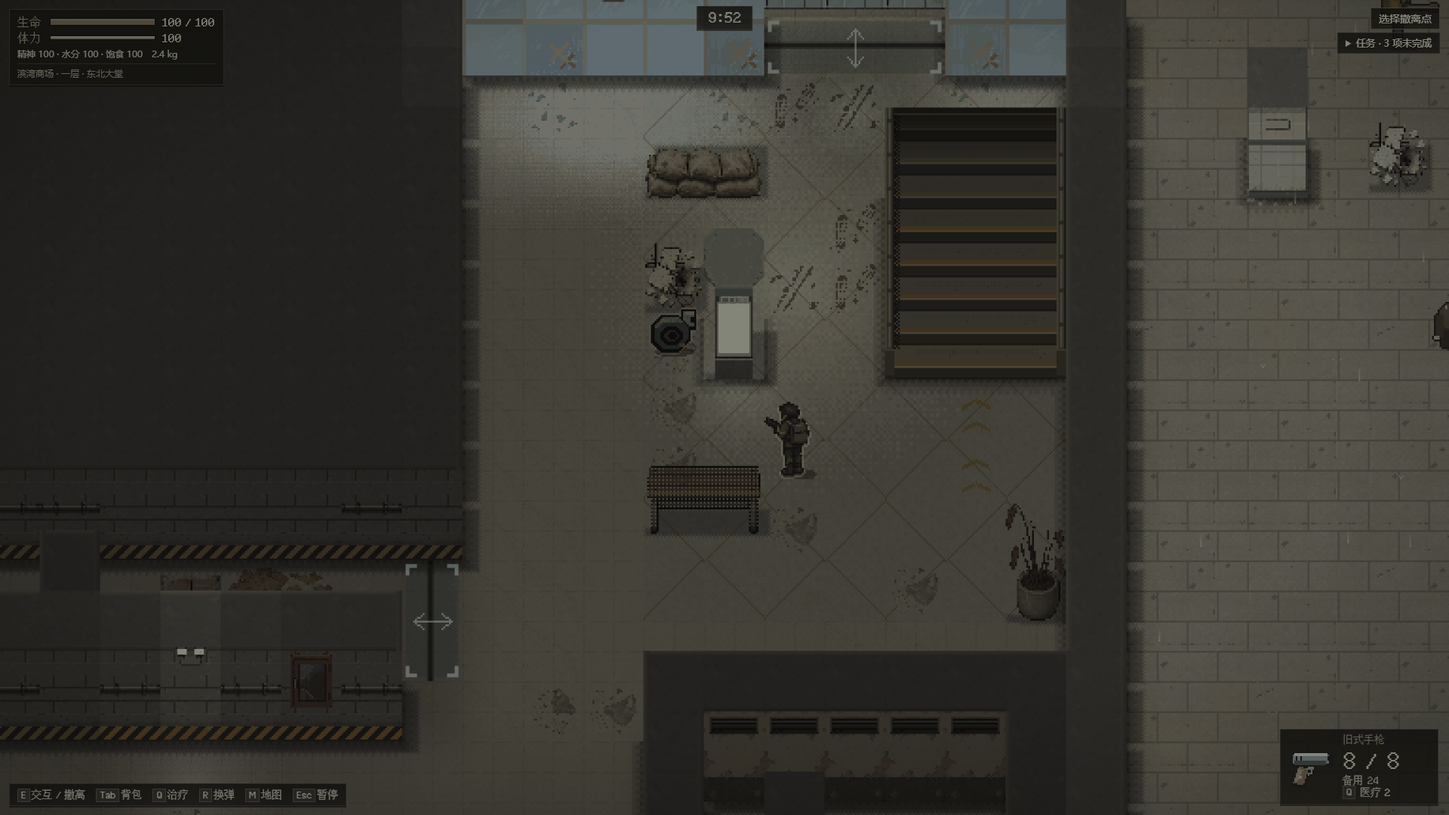
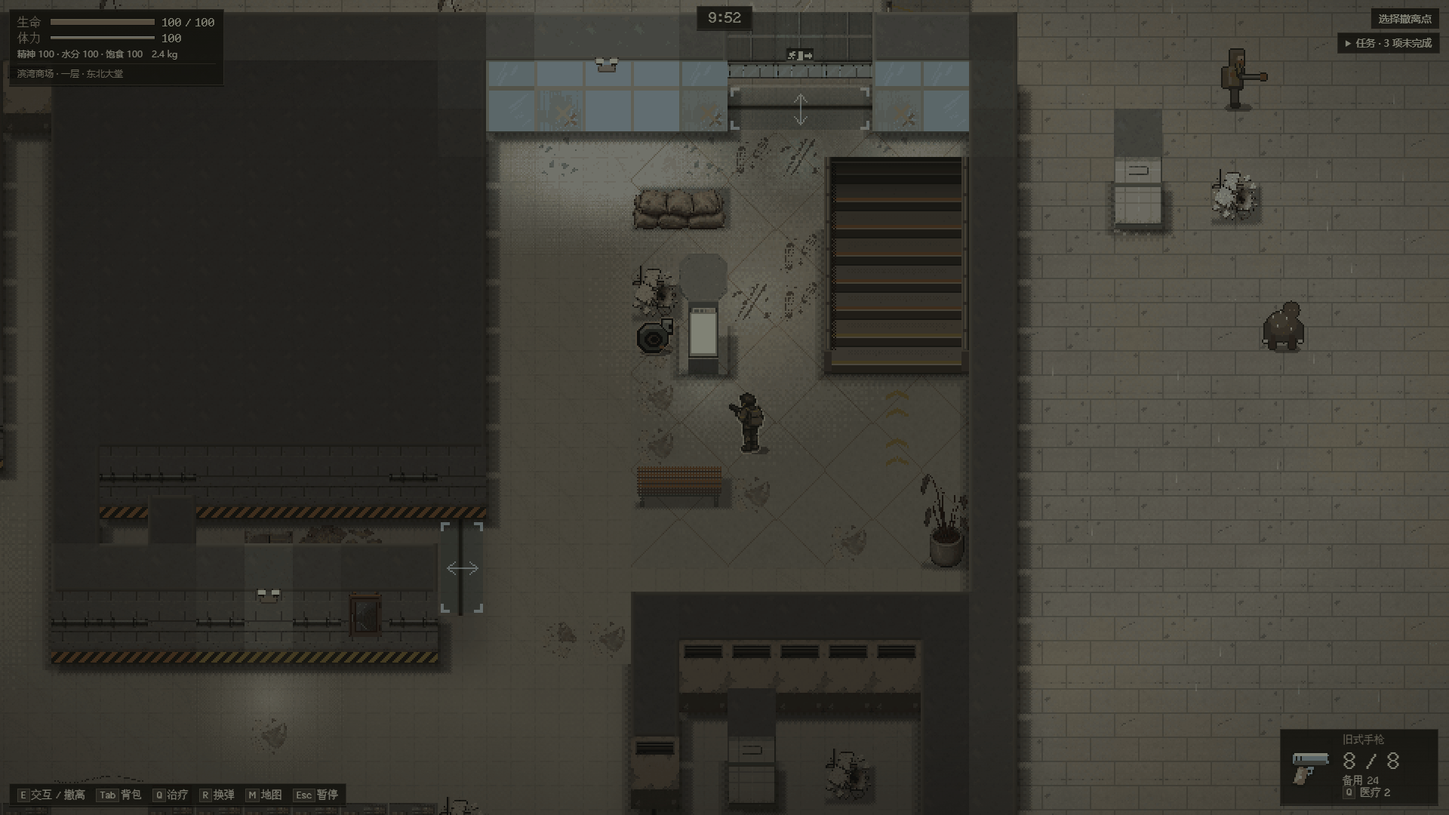
docs: the open items decided (camera, scaling, lights, layout 3, walls); screenshots

diff --git a/docs/mall-2-5d/README.md b/docs/mall-2-5d/README.md
@@ -6,6 +6,8 @@
 
 2026-10-14 渲染接入：`?sample=mall` 在 Pixi 2.5D 画面上跑布局二版，Sol 第一批 110 个素材入库。做法、检查结果和已知问题见下文“2.5D 样板”一节。
 
+2026-10-14 晚：维护者授权按 Opus 的判断处理遗留的几项后合并。样板新出击改用布局三版（茶几、露台桌椅改两格碰撞），镜头、缩放和灯光的改动城中村也一起生效，见“第三次处理”。
+
 ## 维护者决定（2026-10-13）
 
 1. 做布局二版：卖场加货架、柜台等碰撞；外墙、房间、同层出入口、四组楼层连接、锚点和撤离点保持。新旧布局并存，进行中的旧行动按原布局恢复。
@@ -69,11 +71,28 @@
 - 北侧主通道每列至少 3 格连续可走，扶梯横穿通道全程畅通；超市、生鲜、冷藏内相邻两排固定物之间至少 2 格；家居馆临外墙通道与西侧两格通道全程畅通。
 - 一版原有 5 项（39 区域与锚点、两种潮位全图连通、25 敌 60 物资分配与守恒、B/M/V 通道一致、两层隔离射击）在二版上同样通过。
 
+## 布局三版（`mall-v3` / `mall-layout-3`，2026-10-14）
+
+二版的碰撞不能在同一个修订号下改：已存的二版行动里，人或敌人可能正站在要改的格子上，读档时会因为“站进了家具”被拒绝，整个存档会锁住。所以茶几和露台桌椅的碰撞放到三版里改，二版原样保留。
+
+- 数据：`MALL_V3_LAYOUT`（[`src/mall-layout-v2.ts`](../../src/mall-layout-v2.ts)）由二版按一张替换表逐项换出来，一层和二版完全相同。二版数据一个字节都没动，测试钉住了二版世界的 SHA-256。
+- 只改两处：
+  - F2-13 两个客厅的茶几改成 2×1 的 `coffee-table-wide`，放在 (58,19) 和 (58,33)，紧贴沙发南边，和沙发同宽、同中心。原来是一格的茶几，隔着一整行，还偏在沙发西半边。茶几画的还是那张 30 像素宽的图，居中放在两格占地上，投影只画在图下面。
+  - F2-18 露台四组桌椅改成 2×1 的 `bistro-set`，放在 (66,31)、(70,31)、(66,36)、(68,40)。椅子不再画在可以走过去的格子上。
+- 出击和恢复：`?sample=mall` 的新出击用三版。之前开始的二版行动，在标签页、水产站出发和“继续行动”里都照常按二版恢复。三版记录配二版修订号（或者反过来）一律拒绝，不覆盖原始数据。不认识三版的旧包遇到三版行动也会拒绝并保留原始数据，换新包就能继续。普通入口仍是一版。
+- 检查：落点、穿行带、通道宽度、两种潮位连通、敌人和物资分配这些原有约束，在三版上同样通过；三版和二版只在上面这些格子上不同。`test:mall-sample` 的 M18 在真实浏览器里验证两件事：继续一个二版行动仍是二版、茶几在旧位置；新出击是三版、茶几居中。`scripts/mall-runtime-compat.mjs` 验证 main 的包遇到三版行动会拒绝，并保留原始字节。
+
 ## 2.5D 样板（`?sample=mall`）
 
 ### 怎么打开
 
-双击仓库根目录的 `商场试玩.html`，或打开 `start the game.html?sample=mall`。进入水产站后出击区域已选好“滨湾商场”，种子可留空。出生在正门广场西端，面朝正门。想要像素更整齐、走动时不闪的画面，可以在地址后加 `?crisp=1`（`商场试玩.html?crisp=1`）：画面按整数倍放大，1280×720 下能看到的范围从 24 格宽变成 20 格宽。不带 `sample` 的普通入口不变：商场仍是布局一版，在原来的 Phaser 画面上跑。
+双击仓库根目录的 `商场试玩.html`，或打开 `start the game.html?sample=mall`。进入水产站后出击区域已选好“滨湾商场”，种子可留空。出生在正门广场西端，面朝正门。不带 `sample` 的普通入口不变：商场仍是布局一版，在原来的 Phaser 画面上跑。
+
+画面缩放（城中村样板相同）：默认取整数倍，而且只会拉远，不会拉近，最多多看三分之一。
+- 1920×1080 是 2 倍，能看到 30×17 格，和 Phaser 行动画面一样大；原来是 2.5 倍、24 格宽。
+- 2560×1440 是 3 倍。
+- 1280×720、1366×768 这类窗口没有合适的整数倍：1 倍要看 40 格，2 倍只剩 20 格，比敌人的射程还近。所以仍用 1.67、1.78 倍，24 格宽。
+- 地址后加 `?crisp=1` 取最近的整数倍，可能拉近（1280×720 下 20 格宽）；加 `?crisp=0` 是原来的画面，任何窗口都 24 格宽。
 
 ### 截图
 
@@ -88,7 +107,7 @@
 
 ### 入口与存档
 
-- `?sample=mall` 时新出击用布局二版（标签页和水产站出发都一样），存档里是 `mall-v2`；继续行动按存档里的布局恢复。样板只画 `mall-v2`，其他行动照旧走原画面。
+- `?sample=mall` 时新出击用布局三版（标签页和水产站出发都一样），存档里是 `mall-v3`；继续行动按存档里的布局恢复，之前的 `mall-v2` 行动仍在 2.5D 画面上按二版继续。样板只画 `mall-v2` 和 `mall-v3`，其他行动照旧走原画面。
 - `?sample=village` 的行为不变（仍预选居民楼，空种子仍挑城中村出生点）。
 - 存档格式、Runtime 规则和普通入口都没有改。
 
@@ -96,15 +115,17 @@
 
 - 地面：每格按区域选 Sol 的地面图，64 像素的图按格子奇偶取四分之一，跨块拼接不错位；滩涂格仍画泥地，潮水照旧盖上去；二层楼外临空处画两层楼下的暗色街面。杂物贴花和墙、家具的投影烘进地面块。
 - 墙：同一种墙（顶面、哪几边露边、立面、女儿墙栏杆）只画一张图。一层地图边是封锁围挡，二层楼外只有露台一圈画矮女儿墙，其余临空不画墙。东西向的真入口上画门头（大门用入口门头，其余用卷帘门头），顶面和墙顶对齐；南北向侧门南边那段墙压低成两级台阶，让门洞露全。
-- 家具：每件一张图，按占地南边线排前后，玩家走到后面时会淡出，敌人在后面显示轮廓。货架端头立通道号牌（1 到 9 号，从北到南、从西到东），生鲜、冷藏、家居的牌子画小图标。未布置区域里没有名字的低矮碰撞格放一件替身杂物（托盘货、倒地购物车、沙袋、残堆），没有名字的孤立单格画成柱子，其余没有名字的墙格画成墙。露台咖啡桌是程序绘制的一组桌椅。
+- 家具：每件一张图，按占地南边线排前后，玩家走到后面时会淡出，敌人在后面显示轮廓。货架端头立通道号牌（1 到 9 号，从北到南、从西到东），生鲜、冷藏、家居的牌子画小图标。未布置区域里没有名字的低矮碰撞格放一件替身杂物（托盘货、倒地购物车、沙袋、残堆），没有名字的孤立单格画成柱子，其余没有名字的墙格画成墙。露台咖啡桌是程序绘制的一组桌椅。图比占地窄的家具（三版的两格茶几）居中画，投影和接触暗线只画在图下面。
 - 发光：冷柜、导览柱、落地灯、出口灯、应急灯、玻璃幕墙和二层窗户叠一层发光图，跟着所属家具或墙一起淡出。
-- 灯光：吊顶已切掉，所以灯管只给光、不画灯具；坏灯管会闪（系统“减少动态效果”时不闪）。冷柜、落地灯、导览柱、出口灯和应急灯有自己的小光，玻璃幕墙往室内透一点天光。灯光仍按房间是否揭示开关。环境光分三种：楼体内是室内，广场和露台是室外，二层临空更暗。
-- 切墙：玩家所在房间的墙（连同它的南墙）剖开，进出房间各有一格缓冲；在走廊里剖开所在那段走廊正前方一两排的墙；北面和东西两侧外墙不剖。剖开的墙只虚化墙顶和上半截立面，挡路的那一格保持实心。挡住玩家的墙仍按原规则淡出。
+- 灯光：吊顶已切掉，所以灯管只给光、不画灯具；坏灯管会闪（系统“减少动态效果”时不闪）。冷柜、落地灯、导览柱、出口灯和应急灯有自己的小光，玻璃幕墙往室内透一点天光。房间被揭示后，它的灯光在 0.3 秒内亮起来；房间一被隐藏就立刻熄灭，所以未揭示的房间任何一帧都不漏光（城中村相同）。环境光分三种：楼体内是室内，广场和露台是室外，二层临空更暗。
+- 切墙：玩家所在房间的墙（连同它的南墙）剖开，进出房间各有一格缓冲；在走廊里剖开所在那段走廊正前方一两排的墙；北面和东西两侧外墙不剖；封闭的检修核（两层中间那块 9×7 的实心区，后面没有地面）任何时候都不剖。原来二层大厅把它包在里面，人走过时整块会变成条纹，现在保持实心。剖开的墙只虚化墙顶和上半截立面，挡路的那一格保持实心。挡住玩家的墙仍按原规则淡出。
 - 入口：每个连接两个不同地方的门洞（两层共 21 个）在 9 格内显示城中村那种绿色门角标和双向箭头，画在墙的上层，墙挡住时也看得见；地面有一道门槛线。
 - 楼梯：已画出的 S-N 楼梯不挂名字，地面画两道黄色箭头指向楼梯；其余楼梯 8 格内用 HUD 像素字显示名字，站在楼梯口时让给头顶提示。
 - HUD：显示楼层和所在地点（室外地点如正门广场、东侧露台也显示），未布置的房间稍暗并标“样板外”。
 - 天气与声音：雨只下在楼体以外（一层广场、二层露台），进楼后雾在半秒内散掉，室内不飘纸屑；海声在楼体内闭合，广场和露台是室外。
 - 没有素材时（`&art=placeholder` 或素材解码失败）商场仍用通用占位画面，能玩。
+- 镜头（城中村相同）：镜头跟着人物“取整后”的位置走，走路、跑步时人物在屏幕上稳定不动，不再相对背景来回抖一个像素。镜头跟随改用 Runtime 推进人物用的那个时钟。地面按人物自己的整像素步子滚动；帧开始时间有抖动时，偶尔会有一步走 3 像素。武器和手臂随身体一起取整，不再相对身体闪动。
+- 瞄准前探（城中村相同）：平时减半为 24×17 像素，鼠标从人物一侧甩到另一侧，画面滑动从 96 降到 48 像素。按住右键的远看距离不变（81.6×57.8），所以按下或松开右键时画面会多滑一点。触屏也跟着减半。
 
 ### 顺带修的共用问题
 
@@ -133,7 +154,7 @@
 
 修正后又做了一轮多代理审查（世界数据与存档、入口与剖开、画面与 HUD、测试是否可信，每条发现另有验证者复核），确认的问题已全部修复：咖啡桌碰撞改回一格以免旧存档读档失败；走廊补上上面那条剖开规则；外立面只保护北面和两侧；入口改按最内层房间比较、转角只认横穿的墙、厚墙门洞合并；城中村楼梯名的显示规则恢复原样（只在商场里让给头顶提示），城中村空间验收改为检查屏幕上的 HUD 文字；淡出的家具按素材实际底边保留实心；补了出生点周围不放敌人、入口完整清单、外立面保护等测试。
 
-以下几项会连带改动城中村样板，或者属于取舍，留给维护者决定，本批没有改：整数倍缩放要不要变成默认；镜头取整方式（消除人物相对背景的细微抖动）；瞄准时镜头往鼠标方向前探要不要减小；房间灯光揭示时要不要淡入；商场墙要不要整体降低；房间要不要像城中村那样有天花板、进门才掀开。
+以下几项会连带改动城中村样板，或者属于取舍，当时留给维护者决定。维护者后来授权按 Opus 的判断处理，见下面“第三次处理”。
 
 #### 第二次反馈：家具比例（F-05）
 
@@ -151,12 +172,37 @@
 
 ![F-05 修改前后：二层家居馆客厅、卧室和楼梯旁长椅](screens/9-f05-furniture-1280.png)
 
+#### 第三次处理：遗留的几项（维护者授权按 Opus 的判断定，2026-10-14 晚）
+
+先对每一项分别调查、复核，再动手。
+
+| 项目 | 决定 | 理由 |
+| --- | --- | --- |
+| 镜头取整 | 改（城中村一起） | 人物和镜头各自取整，走路时人物在屏幕上每秒来回抖 10–70 次。改成镜头跟着人物取整后的位置走，抖动降到 0，地面滚动的步子基本不变 |
+| 瞄准前探 | 平时减半，右键不变 | 甩鼠标时画面滑动减半，瞄准点被镜头带偏的角度也减半（90 度甩向敌人时从 19 度降到 10 度）。朝瞄准方向仍能看到 408 像素，比所有敌人的视野和射程都远；要看更远就按右键 |
+| 默认整数倍缩放 | 改成“只往远拉的整数倍”（城中村一起） | 非整数倍时，镜头每走一步，细节都要重新糊一遍，这是晕的直接原因之一。只往远拉，就不会让更多攻击来自画面外（10-08 定“保持 24 格宽”就是为了这个）。1280×720 没有合适的整数倍，保持原样 |
+| 灯光淡入 | 改（城中村一起） | 走近超市、大堂时，10–17% 的画面在一帧内突然变亮。改成 0.3 秒亮起；隐藏仍然立刻熄灭，保证不漏光。系统“减少动态效果”时也淡入，因为亮度渐变不算动态 |
+| 商场墙整体降低 | 不改 | 从 48 降到 32 像素，一个被完全遮住的格子也露不出来，墙顶的平面一点不少，却会切掉 Sol 立面上的通风带和窗户 |
+| 房间天花板 | 不加 | 商场是开敞的大厅，70–80% 的室内地面在房间里；人走开几格，天花板就会盖回去，画面里会多出大片平板，认路更难。也起不到防漏的作用（敌人、物资、灯光已经按揭示隐藏） |
+| 茶几离沙发远且偏西 | 布局三版里改 | 见上面“布局三版” |
+| 床、长椅接触暗线两头多 2 像素 | 改 | 接触暗线只画在图的实际宽度下面 |
+
+顺带修了一处：二层大厅 F2-01 把检修核包在里面，人走在大厅里时检修核会被当成房间墙剖开，整块变成条纹，走出大厅又变回实心。这正是 F-04 说的那种晕。现在检修核永远不剖。
+
+![布局二版与三版的客厅：三版茶几正对沙发、贴在沙发前面](screens/10-layout3-living-1280.png)
+
+![1920×1080 下原画面与新默认缩放（同一位置）](screens/11-scale-1920.png)
+
+这些改动的代码审查只开了两名审查者（存档与世界数据、画面代码），两人都没有找到确认的问题。
+
 ### 已知问题
 
 - 外立面朝外的一面暂用室内立面图（Sol 这批没有外立面图），只有正门玻璃幕墙和地图边围挡是专门画的。
 - 未布置区域只有替身杂物和少量垃圾，地面是通用大砖（现在稍暗并在 HUD 标“样板外”）。
 - 1 格和 2 格宽的东西向窄过道（二层 y27、y34、y41，一层 y18–19 的死胡同等）仍会被南边的墙顶盖住大半，属于布局问题，等决定铺满两层时一起改。
-- 沙发和床已贴住碰撞格的南边；茶几和长椅放在格子正中，碰撞仍是整格，南北各比画出来的多 8 像素。茶几和沙发之间隔着一整行（约 1.7 米，真实约 0.45 米），而且茶几偏在沙发西半边 16 像素，这要改布局（升到布局 revision 3，会影响二版存档），留给维护者决定。咖啡桌组的椅子画在两侧可走的格子上；楼梯 S-W、S-E 和扶梯 E-C 仍是一格的通用小图。
+- 沙发和床贴住碰撞格的南边。长椅放在格子正中，碰撞仍是整格，南北各比画出来的多 8 像素。三版的茶几两侧各有约 16 像素看起来是地面、其实挡路，但都夹在沙发前面，比人的身体还窄。二版行动里茶几和桌椅保持原样。楼梯 S-W、S-E 和扶梯 E-C 仍是一格的通用小图。
+- 检修核顶面是一整块平灰，看着像个洞；要等铺满两层或请 Sol 画一种能和暗地面、城中村屋顶区分开的实心填充。
+- 水产站院子的镜头（`station-view`）也有同样的取整抖动，这次没改。
 - 每层地面块在本次视图里一直保留，走遍两层约 35 MB 显存加同样大小的画布内存。
 - 墙、家具和发光是静态布景，不按房间揭示隐藏（楼层没有天花板，房间布局本来就看得到）；不属于任何房间的走廊格照 Runtime 规则总是可见。
 - `scripts/coast-launcher-check.mjs` 已过时：它假定普通入口直接进标签页，现在普通入口先进水产站画面。它不在 CI 里，本批未改。

diff --git a/handoff.md b/handoff.md
@@ -1,3 +1,41 @@
+## 2026-10-14 · 商场 2.5D：遗留几项处理（#47 / #48，维护者授权合并）
+
+维护者说“按你的想法改，改完就合并”。先对 5 项分别调查，每项再由一名复核者检查方案（决策记录在会话 scratchpad 的 decisions/*.json）。然后各在独立工作区实现，测试都先在旧代码上确认会失败，最后拣回本分支。
+
+- `5bee2df`：床和长椅的接触暗线只画在图的实际宽度下面（`mall-scene.ts` 的 `sideSpan`、`mall-ground.ts` 的 `band`），M14 检查。
+- `161f599`：`structure-guide.ts` 的 `mallCutaway` 永不剖开 sealed 区域（检修核）。二层 F2-01 包着它，原来人在大厅里时 54 块核墙会变成条纹。新增 `mall-view.test.ts` 一项和 M19。
+- `f6e0fb2`：新文件 `src/coast-view/view-scale.ts`，默认整数倍缩放只往远拉（floor(fit) ≥ 0.75·fit 时取整数，否则保持小数倍）。`?crisp=1` 为 near，`?crisp=0` 为原规则。1920×1080 下 2 倍、960×540 世界像素；1280×720、1366×768 不变。新增 `coast-view-scale.test.ts`，M08 加断言，新增 M16b。这改动修订了 10-08“保持 24 格宽”的记录：只拉远，所以那条理由仍成立。
+- `ec1c792`：`lighting.ts` 的 `revealLevel`，揭示后 0.3 秒升到全亮；隐藏时即使 dt=0 也立刻归零；新建的灯直接取当前状态，闪光不渐变；系统“减少动态效果”时同样渐变。新增 `coast-lighting.test.ts` 和 M17（M17 必须是第一页最后一步）。
+- `34e0f3f`、`31c8e9d`：布局三版 `mall-v3` / `mall-layout-3`。
+  - `MALL_V3_LAYOUT` 由二版按替换表生成：两张茶几改 2×1 `coffee-table-wide`，放在 (58,19)、(58,33)；四组露台桌椅改 2×1 `bistro-set`。
+  - 二版字节钉 SHA-256。`resolveExpansionWorld`、runtime 白名单、presentation、session、hideout、station、sample 都认三版；`sampleMallLayout` 返回 3，`sampleSupports` 同时接受 v2 和 v3。
+  - `mallProps` 对所有件居中，投影按图的宽度。
+  - 新增 M18 和 `mall-runtime-compat.mjs` 的三版步骤（main 的包遇到三版会拒绝并保留原始字节）。
+- `a041898`：新文件 `src/coast-view/camera.ts`。
+  - `snapAxis`：从未取整的人物位置取偏移，在 0.75 像素内保持；加在取整后的人物位置上；按取整后的边界夹住；另有一条“不逆着平滑方向走”的规则，防止起步时回退。
+  - `host.ts`：镜头跟随改用 Runtime 的 t0 增量，夹在 0.1 秒以内。
+  - 前探改为 24×17，右键保持 81.6×57.8；武器和手臂按身体取整后的位置算。
+  - 新增 `coast-camera.test.ts`；`coast-sample-test.mjs` 动画组（CI）加 V-CAM，V05 臂差收紧到小于 0.01。
+- 不改：商场墙高（保持 48）、天花板（不加），理由见 README。
+
+另并入 main `5a11e3d`（#52）。审查只开两名审查者（存档与世界数据、画面代码），没有另设逐条验证。
+
+验证：在合并 main `5a11e3d` 后的包上测试：
+- `pnpm test` 435；
+- `test:mall-sample` 22/22；
+- 城中村 `coast-sample-test.mjs` 全量 53/53（含 V-CAM）；
+- `test:issue26-spatial` 通过，`test:issue26-phaser-spatial` 18/18；
+- `test:coast-render-targets` 5/5（`--wide` 也是 5/5）；
+- `test:hud-release` 通过，`test:issue26-inventory` 20/20。
+
+各分支实现时另跑过 `mall-runtime-compat`、`mall-passages`、`mall-landing`、`systems`，以及新测试在旧代码上必须失败的对照，结果都已核对。其余几套在合并后的包上复跑的结果、完整 CI 记录在 PR #48。
+
+遗留：
+- 水产站院子镜头有同样的取整抖动，没改。
+- 帧率低于约 10 帧时，镜头跟随被夹在 0.1 秒，抖动可能回来。
+- 检修核顶面仍是平灰。
+- 按住右键时画面滑动比原来多约 70%；触屏前探也减半。这几项需要真人试玩确认。
+
 ## 2026-10-14 · 水产站：食堂进不了宿舍（fix/station-dorm-door）
 
 维护者截图问食堂到宿舍的路是不是被挡了。从 main `405d40d` 建 `fix/station-dorm-door`。原因：宿舍只有一扇门，在食堂与宿舍共用的 x=17 墙上 (17,4)；食堂的案台 `pots`（`src/station-view/layout.ts`，1×2，阻挡）放在 (16,4)–(16,5)，正好占住门里侧那格。院子的碰撞（`nav.ts` 的 `Collision`，脚框 12×7）在门这一行只有 26 像素可走，全被案台挡住，人从食堂进不去，休息区（站点在宿舍里，半径 44）走不到。实测：站在 (15.8,4.6) 按住向右 1.2 秒原地不动；从案台上方斜着挤会卡在门框边。原来的 `station-browser-test.mjs` H1 只检查宿舍屋顶掀开（人到门口就会掀开），所以一直通过；E1 直接把人放进宿舍，也没走门。

diff --git a/docs/MALL-VALIDATION-MAP.md b/docs/MALL-VALIDATION-MAP.md
@@ -2,7 +2,7 @@
 
 > **状态：原始设计规范；PR16 已接入商场候选实现。** 当前布局、首版取值与实际截图见 [PR16实施记录](PR16-IMPLEMENTATION.md)，逐条结果见 [验收登记](PR16-ACCEPTANCE-REGISTER.md)。下述平面示意仍是设计示意；两张原参考图对照、真人与真机验收尚未完成，候选版未合并发布。
 >
-> 2026-10-13：布局二版（`mall-layout-2`，开发中，[#47](https://github.com/xuys2025/escape-bincov/issues/47)）的家具与 S-N 连接坐标登记见 [商场 2.5D](mall-2-5d/README.md)；本文与一版实现不变。2026-10-14 起 `?sample=mall` 用二版在 Pixi 2.5D 画面上试玩，普通入口仍是一版。
+> 2026-10-13：布局二版（`mall-layout-2`，开发中，[#47](https://github.com/xuys2025/escape-bincov/issues/47)）的家具与 S-N 连接坐标登记见 [商场 2.5D](mall-2-5d/README.md)；本文与一版实现不变。2026-10-14 起 `?sample=mall` 在 Pixi 2.5D 画面上试玩；当晚起新出击用布局三版（`mall-layout-3`，茶几和露台桌椅改两格碰撞），此前的二版行动仍按二版恢复，普通入口仍是一版。
 
 设计日期：2026-10-05。维护者在本轮整合审阅中明确：**离层后立刻进行一次子弹结算，随后冻结该层时间**；本文以此覆盖原先“离层弹丸按全局时间过期”的方案。建筑通用规则见 [建筑逻辑设计](BUILDING-LOGIC.md)。已接受基线：`a34c7a1ba810919fc33d4fce158aba0a028a0f78`（上游 main）。
 地图定位：可搜刮、战斗、撤离的验证地图；优先尽量还原用户提供的两张商场平面图。

diff --git a/docs/WORK-QUEUE.md b/docs/WORK-QUEUE.md
@@ -1,3 +1,15 @@
+## 2026-10-14 · 商场 2.5D：遗留几项按 Opus 判断处理后合并（#47 / #48）
+
+维护者授权按 Opus 的判断处理遗留的几项，改完就合并。决定如下：
+- 镜头取整：改，走路时人物不再相对背景抖动。
+- 瞄准前探：平时减半，右键不变。
+- 默认缩放：只往远拉的整数倍，1920×1080 下 2 倍、30 格宽；1280×720 不变。
+- 灯光：揭示时 0.3 秒淡入，隐藏立刻熄灭。
+- 布局三版：茶几和露台桌椅改两格碰撞，二版行动照常按二版恢复。
+- 商场墙：不降低；天花板：不加；检修核永远不剖开。
+
+镜头、缩放、灯光是共用代码，城中村一起变。详情见[商场 2.5D](mall-2-5d/README.md)的“第三次处理”和“布局三版”。以下历史记录保留。
+
 ## 2026-10-14 · 水产站：食堂进不了宿舍
 
 维护者截图问食堂到宿舍是不是被挡住了。确认是：宿舍唯一的门在食堂东墙 (17,4)，门里侧那格被食堂的案台（`pots`，1×2）占着，人从食堂挤不进门，休息区因此走不到。原来的 H1 只看宿舍屋顶有没有掀开，人走到门口屋顶就会掀开，所以一直没测出来。案台挪到门下方 (16,5)，H1 改为必须走过门，新增布局可达性测试。单独分支 `fix/station-dorm-door`，与商场 #48 无关。以下历史记录保留。

diff --git a/docs/COAST-SAMPLE-VIEW.md b/docs/COAST-SAMPLE-VIEW.md
@@ -48,7 +48,9 @@
 
 - **渲染：** PixiJS 8.22.0（MIT），用仓库现有的 esbuild 打进同一个离线 HTML，没有引入 Vite，也没有第二条构建链。单文件从 2.42 MB 增至 2.95 MB，增量全部是 Pixi 运行时；第三方声明已补入 `THIRD_PARTY_NOTICES.md`。
 - **管线：** 沿用原型：
-  - 低分辨率世界画布，整数倍最近邻放大加余数线性缩放。
+  - 低分辨率世界画布，整数倍最近邻放大加余数线性缩放。2026-10-14 起默认取整数倍，而且只往远拉、最多多看三分之一（1920×1080 为 2 倍、30×17 格；2560×1440 为 3 倍）；1280×720、1366×768 这类窗口没有合适的整数倍，仍按 24 格宽取小数倍。`?crisp=1` 取最近的整数倍，`?crisp=0` 是原来的画面（[`src/coast-view/view-scale.ts`](../src/coast-view/view-scale.ts)）。
+  - 镜头跟着人物取整后的位置走，走路时人物在屏幕上不抖；瞄准前探平时 24×17，按住右键 81.6×57.8（[`src/coast-view/camera.ts`](../src/coast-view/camera.ts)）。
+  - 房间揭示后灯光 0.3 秒内亮起，隐藏时立刻熄灭。
   - 物体按脚底 y 排序；前墙和雨棚用抖动淡化。
   - 屋顶与房间楼板只按 Runtime 给出的 `revealed` 揭示。
   - 地面层乘光照图，直立对象按接地点取光。
